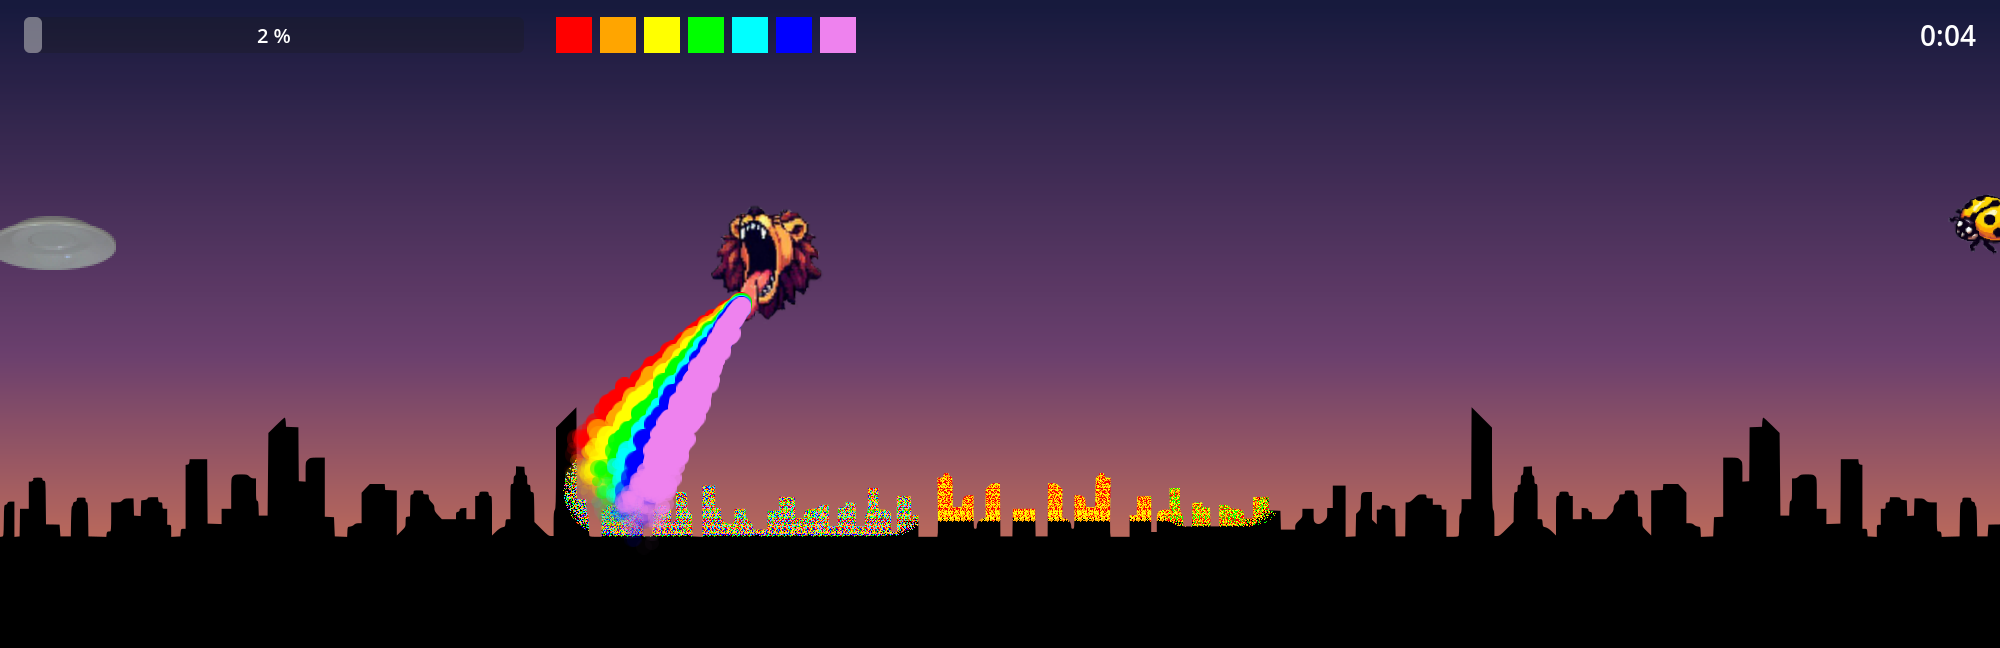
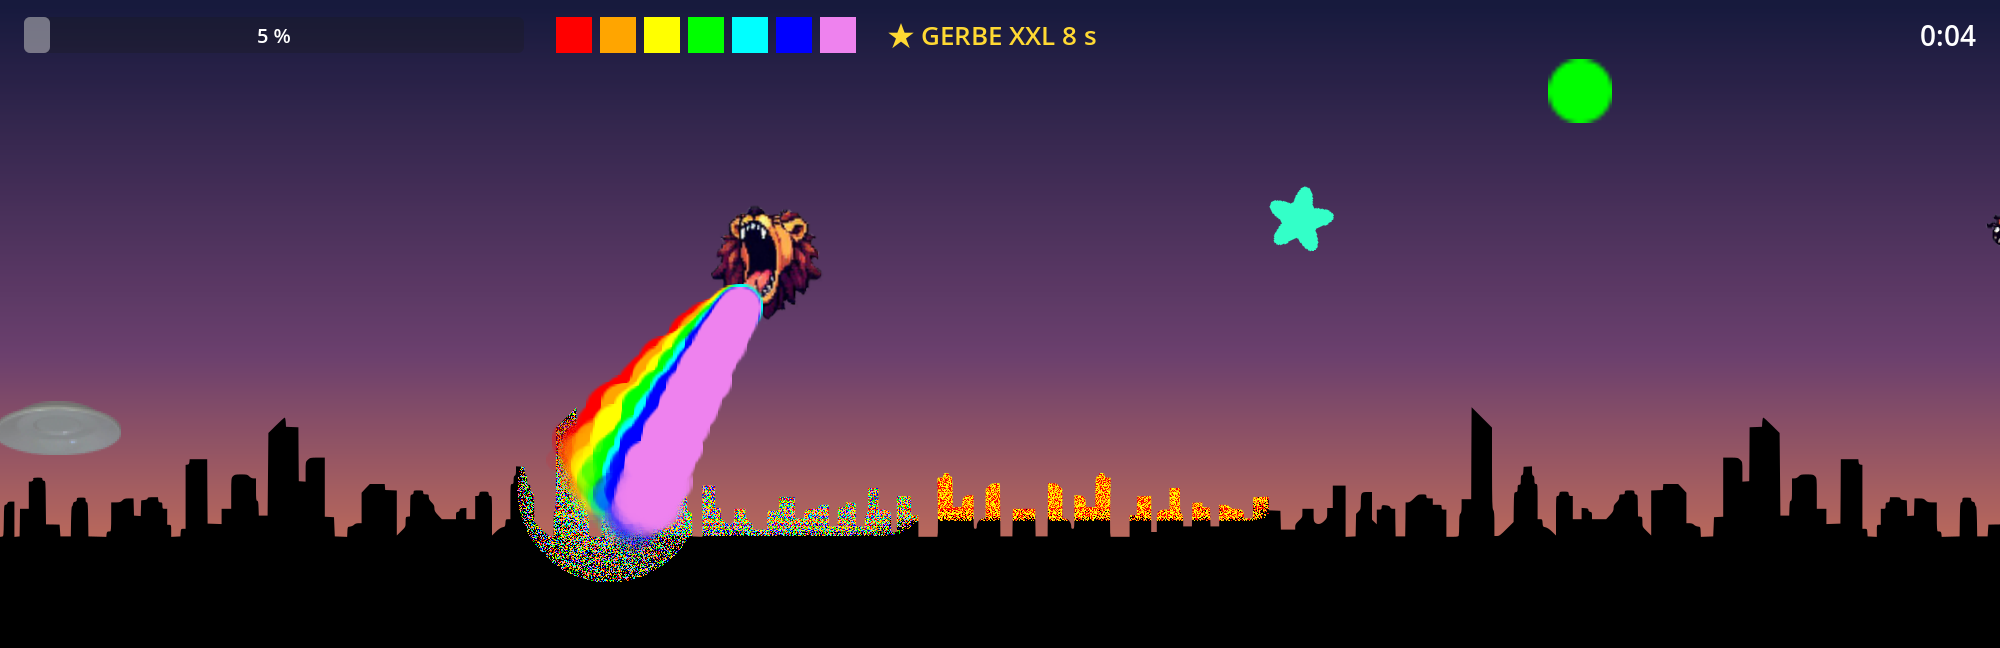
Phase 5c : CI GitHub Actions (smoke test, export Web, déploiement Pages) et README

diff --git a/README.md b/README.md
@@ -3,6 +3,8 @@
 Un lion doit colorier la ville en vomissant un arc-en-ciel, tout en évitant des ennemis.
 Un jeu absurde et délicieusement coloré, fait avec [Godot 4](https://godotengine.org).
 
+**Jouer dans le navigateur : <https://w3cdotorg.github.io/LeLion/>** (déployé par la CI à chaque push sur `main`).
+
 ![Capture du jeu](docs/capture.png)
 
 ## Comment jouer
@@ -11,6 +13,10 @@ Attrape les pastilles de couleur pour enrichir ta gerbe, puis maintiens la touch
 en survolant la ville. La partie est gagnée quand 85 % de la skyline est peinte.
 Une soucoupe ou une coccinelle qui te touche, et c'est terminé. Les ennemis arrivent de
 plus en plus vite à mesure que la ville se colore.
+
+Trois niveaux (Skyline, Métropole, Village) se choisissent depuis l'écran titre, qui affiche
+ton meilleur temps sur chacun. Une étoile arc-en-ciel apparaît de temps en temps : ramasse-la
+pour doubler la largeur de ta gerbe pendant huit secondes.
 
 | Action | Clavier | Manette |
 |---|---|---|
@@ -30,17 +36,18 @@ godot .
 ## Structure
 
 ```
-Scenes/     Main (racine), Lion, Ville, HUD, GameOver, ColorPickup, Soucoupe, Coccinelle
-Scripts/    un script par scène + autoloads GameState (état de partie) et Audio (sons)
+Scenes/     Titre, Main (partie), Lion, Ville, HUD, GameOver, ColorPickup, BonusPickup, Soucoupe, Coccinelle
+Scripts/    un script par scène + autoloads GameState (partie, niveaux), Scores (records), Audio (sons)
 Shaders/    Ville.gdshader : applique le masque de peinture sur la skyline
 Assets/     Sprites (utilisés), Sons (générés), src (matériel de référence, ignoré par Godot)
 tests/      smoke_test.gd (headless) et screenshots.gd (captures pilotées)
-tools/      generer_sons.py : synthèse des effets sonores
+tools/      generer_sons.py (effets sonores) et generer_skylines.py (skylines, étoile)
 ```
 
 La peinture est un masque RGBA de la taille de la skyline, tamponné par blit natif là où
 la gerbe touche la ville. La progression est comptée sur une grille de cellules de 8 px qui
-ne couvre que les zones opaques de la skyline.
+ne couvre que les zones opaques de la skyline. Un niveau, c'est simplement un PNG de
+silhouette : ajoute une entrée dans `GameState.NIVEAUX` pour en créer un.
 
 ## Tests
 
@@ -57,12 +64,16 @@ Pour vérifier visuellement (ouvre une fenêtre quelques secondes et écrit des 
 godot --rendering-driver opengl3 --script tests/screenshots.gd -- --dossier=/chemin/de/sortie
 ```
 
-Les sons se régénèrent avec `python3 tools/generer_sons.py`.
+Les sons se régénèrent avec `python3 tools/generer_sons.py`, les skylines avec
+`python3 tools/generer_skylines.py`.
 
-## Export
+## Export et CI
 
 Un preset Web est défini dans `export_presets.cfg`. Avec les templates d'export installés :
 
 ```sh
 godot --headless --export-release Web export/web/index.html
 ```
+
+Le workflow `.github/workflows/ci.yml` installe Godot, lance le smoke test et exporte en Web
+à chaque push ou pull request. Sur `main`, il déploie le résultat sur GitHub Pages.
